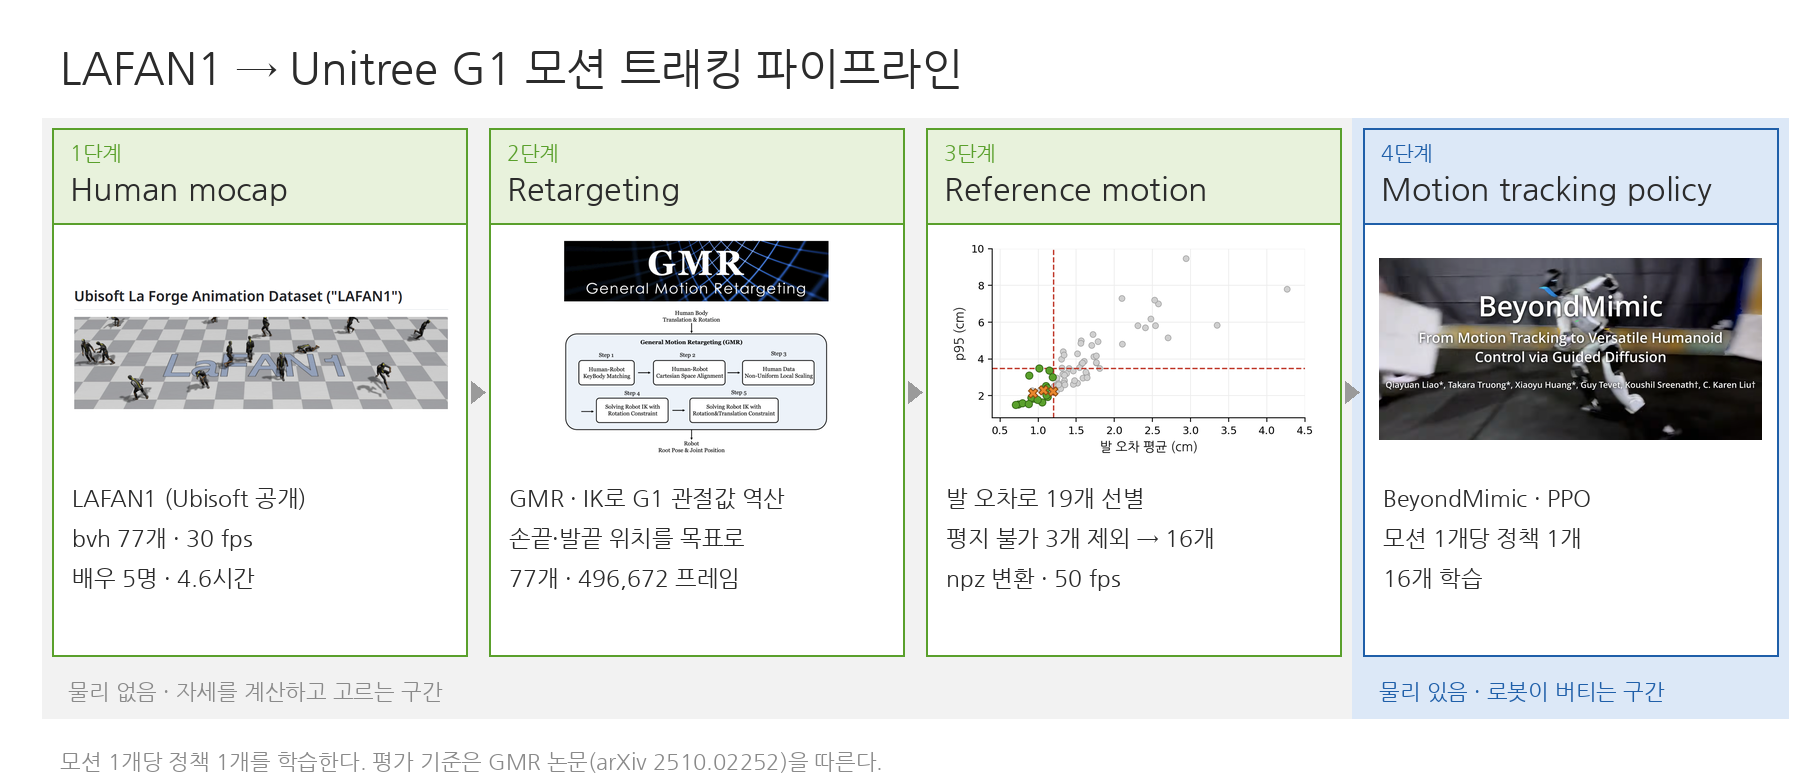
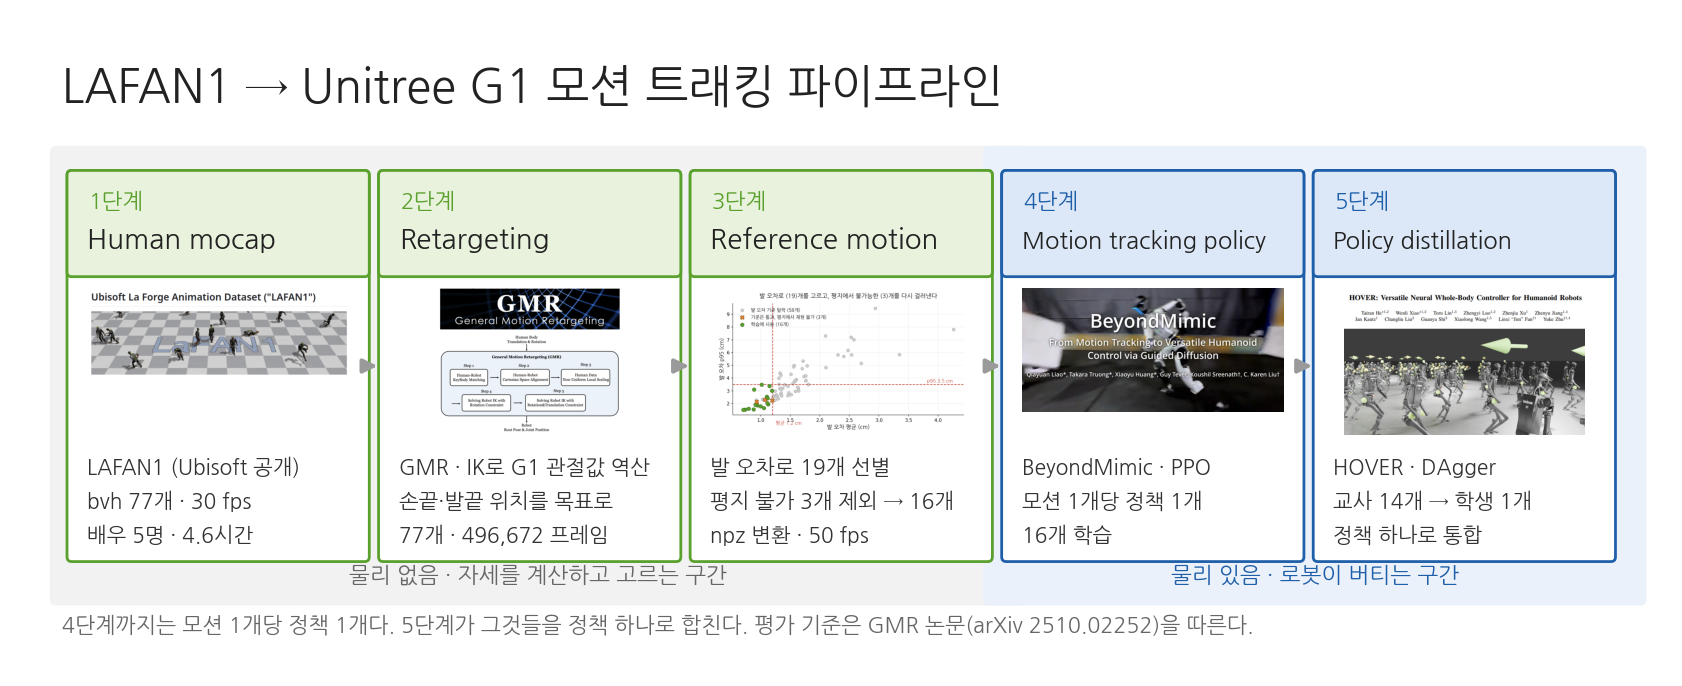
Add the distillation stage to the pipeline
14 per-motion policies become one student policy. The distillation loop
is HOVER's neural_wbc/student_policy, unchanged except for the package
imports; the teacher side routes per-env by a motion index carried in
the observation, the way parkour's ActorCriticFieldMutex does.

The pipeline figure script was two commits behind the checked-in image.
It now reads docs/stage_N.png as the panel thumbnail and lays out the
physics bands from the stage count, so adding a stage is one entry.

diff --git a/scripts/make_pipeline_figure.py b/scripts/make_pipeline_figure.py
@@ -1,13 +1,18 @@
 """README의 파이프라인 그림을 그린다.
 
     python scripts/make_pipeline_figure.py --out docs/pipeline.png
+
+칸마다 docs/stage_N.png 를 썸네일로 넣는다. 단계가 늘면 STAGES 에 한 줄을
+추가하고 docs/stage_N.png 를 두면 된다.
 """
 
 import argparse
+import os
 
 import matplotlib
 matplotlib.use("Agg")
 import matplotlib.font_manager as fm
+import matplotlib.image as mpimg
 import matplotlib.pyplot as plt
 from matplotlib.patches import FancyArrowPatch, FancyBboxPatch
 
@@ -15,81 +20,111 @@ FONT = "/usr/share/fonts/truetype/nanum/NanumGothic.ttf"
 GREEN, GREEN_FILL = "#5aa02c", "#e8f2dc"
 BLUE, BLUE_FILL = "#1f5fa9", "#dce8f7"
 
+DOCS = os.path.join(os.path.dirname(os.path.dirname(os.path.abspath(__file__))), "docs")
+
+# physics=False 는 자세만 계산하는 구간, True 는 로봇이 스스로 버티는 구간이다.
 STAGES = [
-    dict(no="1단계", name="Human mocap", color=GREEN, fill=GREEN_FILL,
+    dict(no="1단계", name="Human mocap", physics=False, thumb="stage_1.png",
          body=["LAFAN1 (Ubisoft 공개)",
                "bvh 77개 · 30 fps",
-               "사람 관절 24개의 3D 위치",
-               "",
-               "배우 5명 · 걷기 뛰기 춤",
-               "격투 장애물 넘어지기"]),
-    dict(no="2단계", name="Retargeting", color=GREEN, fill=GREEN_FILL,
-         body=["GMR · IK로 역산",
-               "사람 손끝·발끝 위치를 목표로",
-               "G1 관절값을 찾는다",
-               "",
-               "pkl 77개 · 496,672 프레임",
-               "한 프레임에 숫자 36개",
-               "골반 3 + 방향 4 + 관절각 29"]),
-    dict(no="3단계", name="Reference motion", color=GREEN, fill=GREEN_FILL,
-         body=["IK 목표 추적 오차 측정",
-               "발·손·골반이 목표에서 몇 cm",
-               "",
-               "발 오차로 19개 선별",
-               "mean<1.2 p95<3.5 max<10",
-               "",
-               "npz 변환 · 50 fps · 속도 추가"]),
-    dict(no="4단계", name="Motion tracking policy", color=BLUE, fill=BLUE_FILL,
+               "배우 5명 · 4.6시간"]),
+    dict(no="2단계", name="Retargeting", physics=False, thumb="stage_2.png",
+         body=["GMR · IK로 G1 관절값 역산",
+               "손끝·발끝 위치를 목표로",
+               "77개 · 496,672 프레임"]),
+    dict(no="3단계", name="Reference motion", physics=False, thumb="stage_3.png",
+         body=["발 오차로 19개 선별",
+               "평지 불가 3개 제외 → 16개",
+               "npz 변환 · 50 fps"]),
+    dict(no="4단계", name="Motion tracking policy", physics=True, thumb="stage_4.png",
          body=["BeyondMimic · PPO",
-               "환경 4096개 · 30000회 반복",
-               "모션 1개당 정책 1개 → 19개",
-               "",
-               "평가는 완주율과 추적 오차",
-               "E_g-mpbpe · E_mpbpe (mm)",
-               "E_mpjpe (rad) · 기준은 GMR"]),
+               "모션 1개당 정책 1개",
+               "16개 학습"]),
+    dict(no="5단계", name="Policy distillation", physics=True, thumb="stage_5.png",
+         body=["HOVER · DAgger",
+               "교사 14개 → 학생 1개",
+               "정책 하나로 통합"]),
 ]
 
-NOTE = ("1~3단계 완료. 4단계는 19개 중 1개 학습을 마쳤고 나머지가 순서를 기다린다. "
+NOTE = ("4단계까지는 모션 1개당 정책 1개다. 5단계가 그것들을 정책 하나로 합친다. "
         "평가 기준은 GMR 논문(arXiv 2510.02252)을 따른다.")
+
+W, GAP, X0 = 382, 20, 75
+BOX_BOTTOM, BOX_H = 150, 500
+HEAD_BOTTOM, HEAD_H = 520, 130
+
+
+def _draw_thumb(ax, path, left, width):
+    """칸 안쪽 썸네일. 비율을 지키면서 가로를 칸에 맞춘다."""
+    if not os.path.isfile(path):
+        return
+    img = mpimg.imread(path)
+    iw, ih = img.shape[1], img.shape[0]
+    tw = width - 44
+    th = tw * ih / iw
+    top = 500  # 머리글 아래
+    max_h = 190
+    if th > max_h:  # 너무 세로로 길면 높이에 맞춘다
+        th = max_h
+        tw = th * iw / ih
+    cx = left + width / 2
+    ax.imshow(img, extent=(cx - tw / 2, cx + tw / 2, top - th, top), aspect="auto", zorder=3)
 
 
 def main(out):
     fm.fontManager.addfont(FONT)
     plt.rcParams["font.family"] = fm.FontProperties(fname=FONT).get_name()
 
-    fig, ax = plt.subplots(figsize=(18.0, 8.6), dpi=100)
-    ax.set_xlim(0, 1800); ax.set_ylim(0, 860); ax.axis("off")
+    n = len(STAGES)
+    total_w = X0 + n * W + (n - 1) * GAP + 75
+    fig, ax = plt.subplots(figsize=(total_w / 100.0, 8.6), dpi=100)
+    ax.set_xlim(0, total_w); ax.set_ylim(0, 860); ax.axis("off")
     fig.patch.set_facecolor("white")
 
     ax.text(65, 745, "LAFAN1 → Unitree G1 모션 트래킹 파이프라인",
             fontsize=33, color="#222222")
 
-    x, w, gap = 75, 382, 20
-    span13 = 3 * w + 2 * gap
-    ax.add_patch(FancyBboxPatch((55, 95), span13 + 60, 585, boxstyle="round,pad=6,rounding_size=8",
+    n_nophys = sum(1 for s in STAGES if not s["physics"])
+    span_nophys = n_nophys * W + (n_nophys - 1) * GAP
+    n_phys = n - n_nophys
+    span_phys = n_phys * W + (n_phys - 1) * GAP
+
+    ax.add_patch(FancyBboxPatch((55, 95), span_nophys + 60, 585,
+                                boxstyle="round,pad=6,rounding_size=8",
                                 linewidth=0, facecolor="#f2f2f2"))
-    ax.add_patch(FancyBboxPatch((x + 3 * (w + gap) - 22, 95), w + 60, 585,
+    phys_left = X0 + n_nophys * (W + GAP) - 22
+    ax.add_patch(FancyBboxPatch((phys_left, 95), span_phys + 60, 585,
                                 boxstyle="round,pad=6,rounding_size=8",
                                 linewidth=0, facecolor="#eaf1fa"))
-    ax.text(55 + (span13 + 60) / 2, 120, "물리 없음 · 자세를 계산하고 고르는 구간",
+    ax.text(55 + (span_nophys + 60) / 2, 120, "물리 없음 · 자세를 계산하고 고르는 구간",
             fontsize=16, color="#666666", ha="center")
-    ax.text(x + 3 * (w + gap) - 22 + (w + 60) / 2, 120, "물리 있음 · 로봇이 버티는 구간",
+    ax.text(phys_left + (span_phys + 60) / 2, 120, "물리 있음 · 로봇이 버티는 구간",
             fontsize=16, color=BLUE, ha="center")
 
     for i, st in enumerate(STAGES):
-        left = x + i * (w + gap)
-        ax.add_patch(FancyBboxPatch((left, 150), w, 500, boxstyle="round,pad=4,rounding_size=6",
-                                    linewidth=2, edgecolor=st["color"], facecolor="white"))
-        ax.add_patch(FancyBboxPatch((left, 520), w, 130, boxstyle="round,pad=4,rounding_size=6",
-                                    linewidth=2, edgecolor=st["color"], facecolor=st["fill"]))
-        ax.text(left + 24, 606, st["no"], fontsize=16, color=st["color"])
-        ax.text(left + 22, 553, st["name"], fontsize=20, color="#222222")
+        color = BLUE if st["physics"] else GREEN
+        fill = BLUE_FILL if st["physics"] else GREEN_FILL
+        left = X0 + i * (W + GAP)
+        ax.add_patch(FancyBboxPatch((left, BOX_BOTTOM), W, BOX_H,
+                                    boxstyle="round,pad=4,rounding_size=6",
+                                    linewidth=2, edgecolor=color, facecolor="white"))
+        ax.add_patch(FancyBboxPatch((left, HEAD_BOTTOM), W, HEAD_H,
+                                    boxstyle="round,pad=4,rounding_size=6",
+                                    linewidth=2, edgecolor=color, facecolor=fill))
+        ax.text(left + 24, 606, st["no"], fontsize=16, color=color)
+        # 이름이 길면 칸 밖으로 넘친다. 글자 수에 따라 줄인다
+        name_size = 20 if len(st["name"]) <= 18 else 17
+        ax.text(left + 22, 553, st["name"], fontsize=name_size, color="#222222")
+
+        _draw_thumb(ax, os.path.join(DOCS, st["thumb"]), left, W)
+
         for j, line in enumerate(st["body"]):
-            ax.text(left + 22, 465 - j * 44, line, fontsize=15, color="#333333")
-        if i < len(STAGES) - 1:
-            ax.add_patch(FancyArrowPatch((left + w + 2, 400), (left + w + gap - 2, 400),
+            ax.text(left + 22, 260 - j * 44, line, fontsize=15, color="#333333")
+
+        if i < n - 1:
+            ax.add_patch(FancyArrowPatch((left + W + 2, 400), (left + W + GAP - 2, 400),
                                          arrowstyle="-|>", mutation_scale=20,
-                                         linewidth=3, color="#9a9a9a"))
+                                         linewidth=3, color="#9a9a9a", zorder=4))
 
     ax.text(65, 55, NOTE, fontsize=15.5, color="#666666")
 

diff --git a/README.en.md b/README.en.md
@@ -15,6 +15,8 @@ solved by a different hand.
 
 Trained policies and evaluation results: [Hugging Face](https://huggingface.co/hooneyskywalker/g1-motion-tracking-policies)
 
+Training curves: [W&B](https://wandb.ai/hooneyskywalker-humanoid/g1_distill)
+
 All videos: [YouTube playlist](https://www.youtube.com/playlist?list=PLLNhmCfT2kPI)
 
 ---
